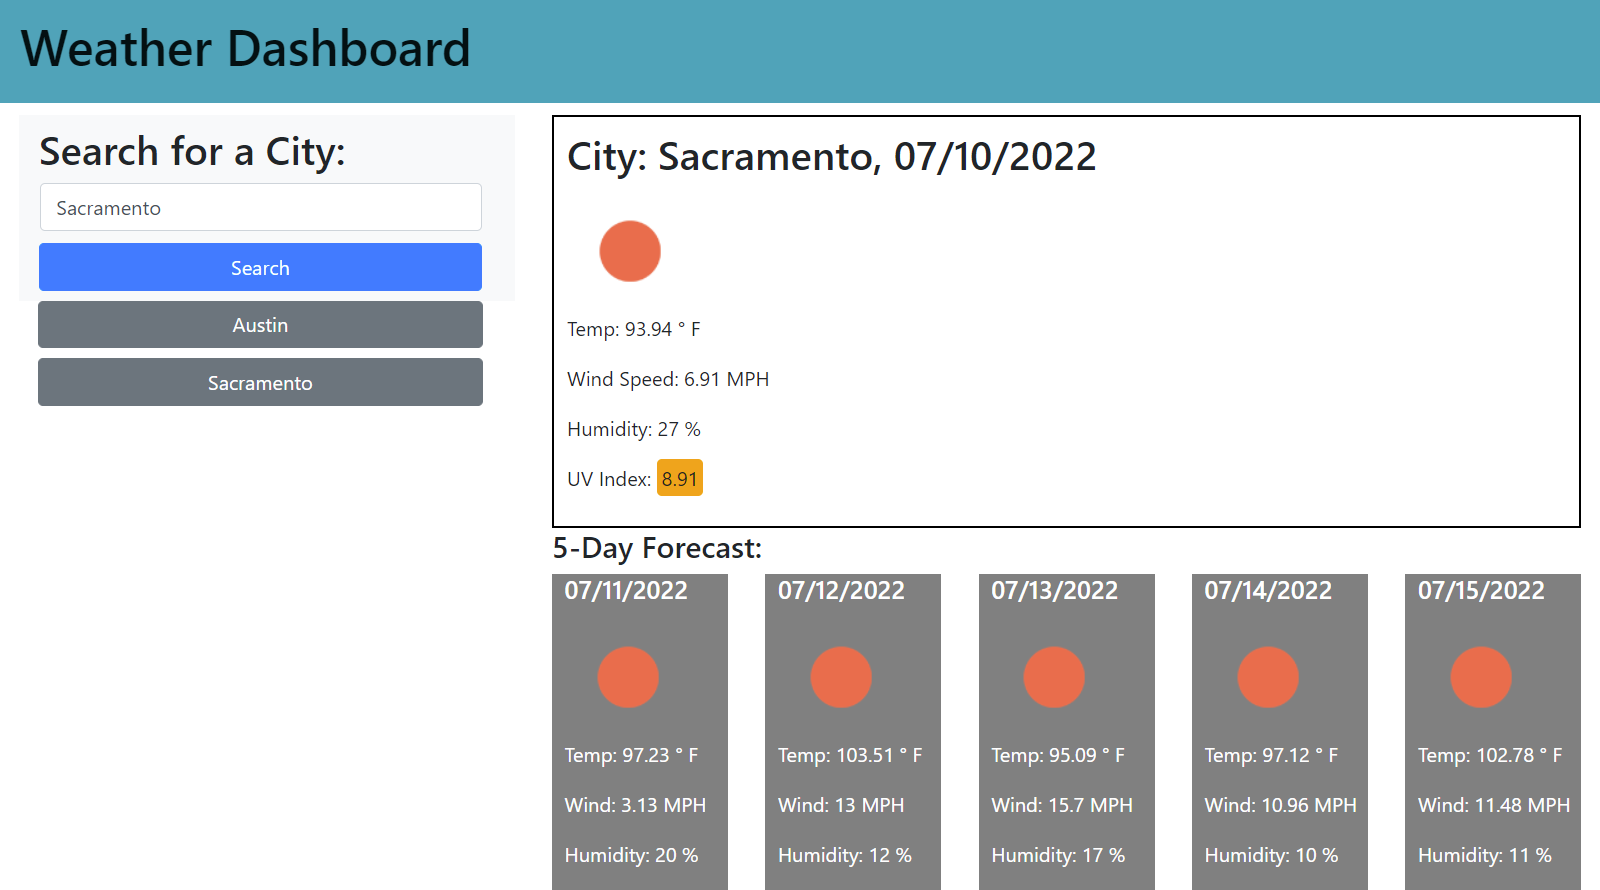
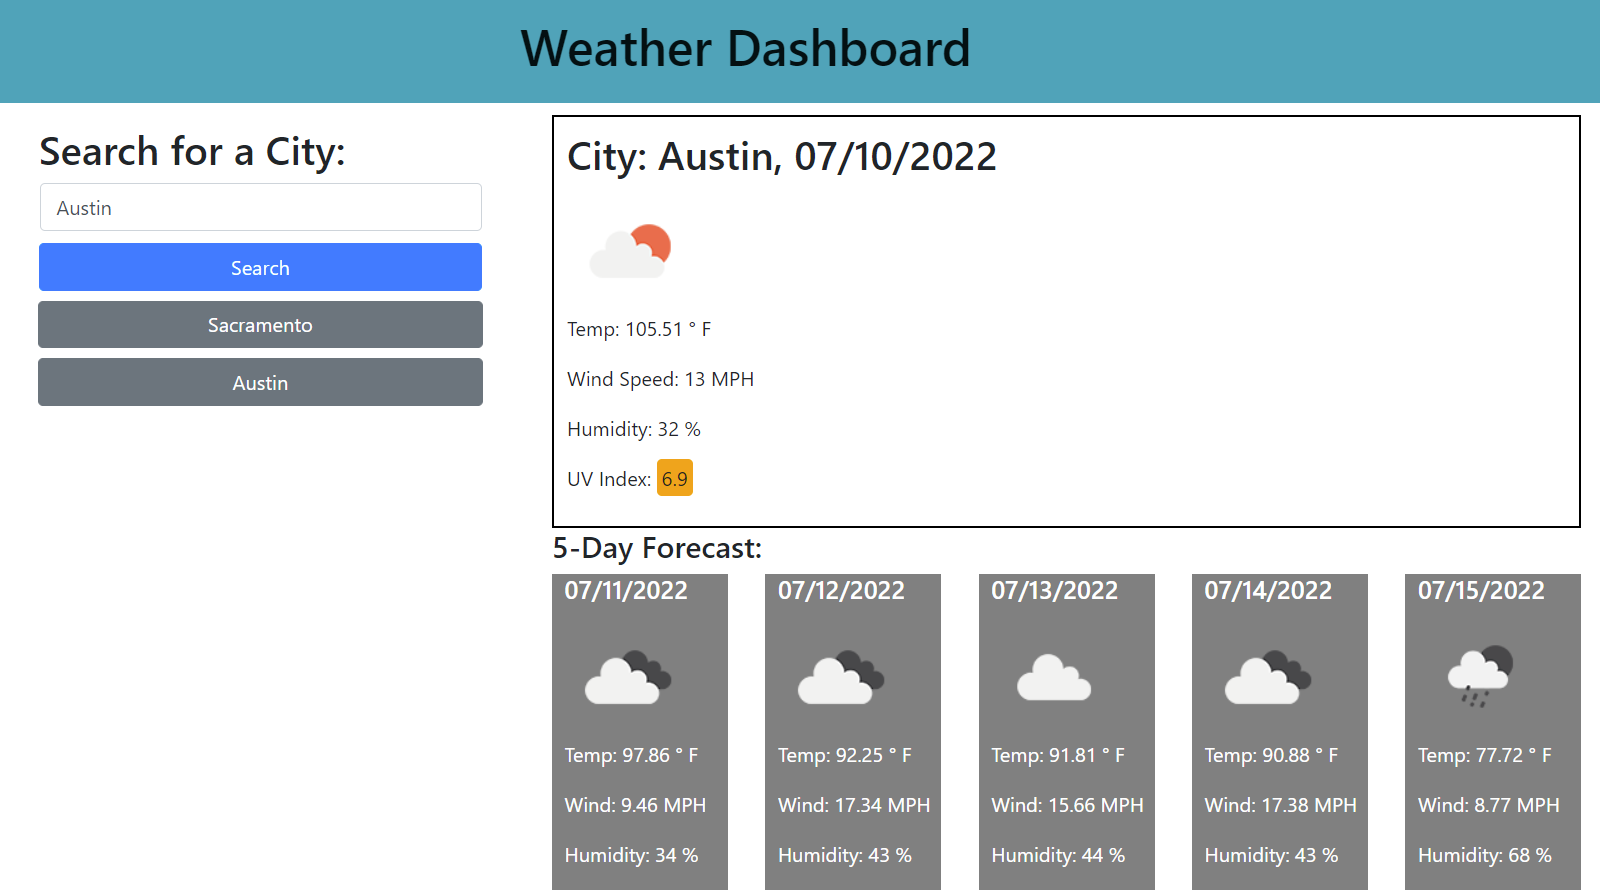
final-final commit

diff --git a/index.html b/index.html
@@ -7,21 +7,21 @@
     <link rel="stylesheet" href="https://cdnjs.cloudflare.com/ajax/libs/twitter-bootstrap/4.5.0/css/bootstrap.min.css">
     <link rel="stylesheet" href="./assets/css/style.css" />
     <script type="text/javascript" src="https://cdnjs.cloudflare.com/ajax/libs/moment.js/2.27.0/moment.min.js"></script>
-    <title>The Weather App</title>
+    <title>The Weather Dashboard</title>
   </head>
 
   <body>
 
     <!-- Navbar -->
     <nav class="navbar navbar-light bg-info">
-      <span class="navbar-brand mb-0 h1"><h1 id="test-h1">Weather Dashboard</h1></span>
+      <span class="navbar-brand mb-0 h1"><h1>Weather Dashboard</h1></span>
     </nav>
 
     <!-- Search bar with button -->
     <section class="container-fluid">
       <div class="row">
         <div class="col-12 col-md-4 col-lg-4 ">
-          <nav class="navbar navbar-light bg-light">
+          <nav class="navbar navbar-light">
                 <h2>Search for a City:</h2>
                 <input class="form-control" type="text" id="search" placeholder="Enter city to view weather" style="margin-right: 10px; margin-left: 1px;">
                 <button type="button" onclick="getWeather();" class="btn btn-primary btn-block" style="margin-top: 10px; margin-right: 10px;" id="searchBtn">Search</button>

diff --git a/assets/css/style.css b/assets/css/style.css
@@ -10,3 +10,7 @@
 #center {
   text-align: center;
 }
+
+h1 {
+  margin-left: 400px;
+}

diff --git a/README.md b/README.md
@@ -1,9 +1,9 @@
 # Weather-Dashboard
 Module 6 Challenge: Weather Dashboard by Sergey Holin
 
-GitHub Repo Link: https://github.com/sergeyholin/Weather-Dashboard-App
+GitHub Repo Link: https://github.com/sergeyholin/Weather-Dashboard
 
-GitHub Live Deployment Link: https://sergeyholin.github.io/Weather-Dashboard-App/
+GitHub Live Deployment Link: https://sergeyholin.github.io/Weather-Dashboard/
 
 ABOUT THE APP:
 
@@ -27,7 +27,9 @@ ADDITIONAL CRITERIA:
 
 Application deployed at live URL.
 
-SOURCES/CITATIONS: Some of my code (populate previosly searched cities with clickable buttons (lines:11-31) as well as UVI color coding (lines:80-92)) was inspired by a work of Mengmei Tu on a similar project, Link: https://github.com/mmeii/weather-dashboard
+SOURCES/CITATIONS: 
+
+Some of my code (populate previosly searched cities with clickable buttons (lines:11-31) as well as UVI color coding (lines:80-92)) was inspired by a work of Mengmei Tu on a similar project, Link: https://github.com/mmeii/weather-dashboard
 
 TECHNOLOGIES USED: 
 
